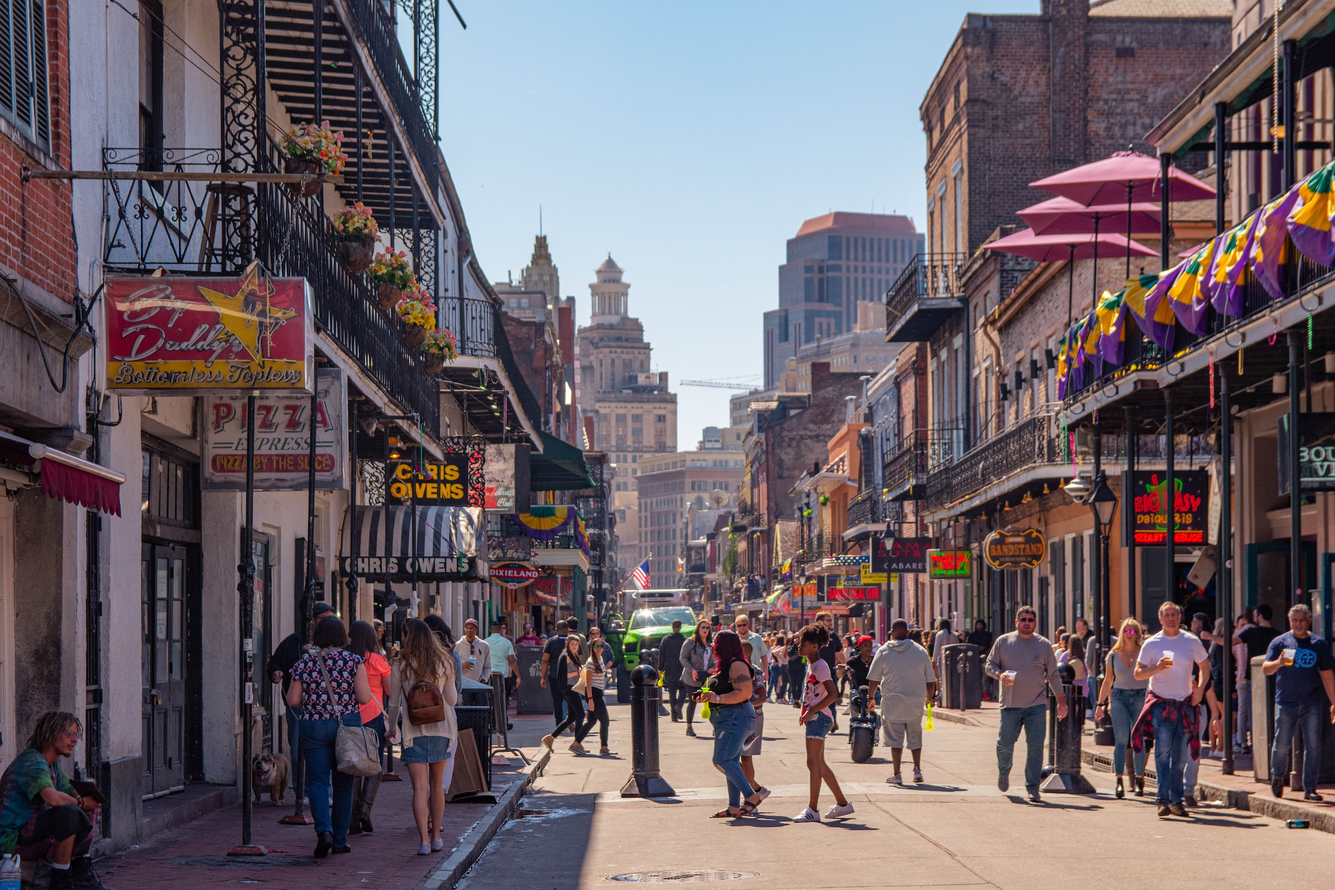
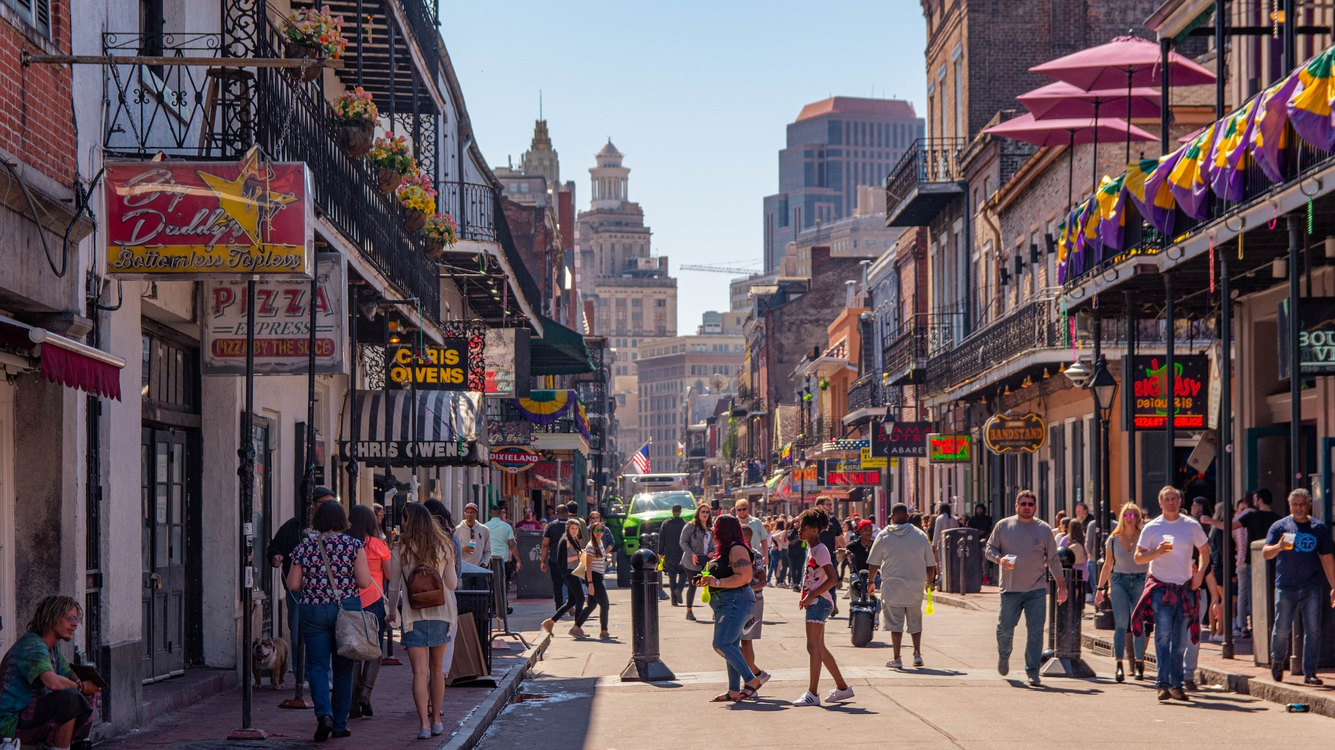
updated image sizes. created javascript image transition effect

diff --git a/css/styles.css b/css/styles.css
@@ -8,9 +8,14 @@
   left: 0;
   border: none;
   overflow-x: hidden;
+  opacity: 1;
 }
 
-.destinationContainer::before {
+body {
+  background-color: black;
+}
+
+/* .destinationContainer::before {
   content: "";
   position: absolute;
   height: 100vh;
@@ -24,23 +29,30 @@
   background-repeat: no-repeat;
   background-size: cover;
   background-attachment: fixed;
-  opacity: 1;
+  opacity: 0;
   box-shadow: inset 0px 0px 150px black;
-  transition: 1s ease-in-out;
+  transition: opacity 2s;
+  
+} */
 
+.opacity {
+  opacity: 1;
 }
 
 .fade {
-  opacity: 0;
+  animation: fade 2s ease-in-out;
 }
 
 @keyframes fade {
-  0% {opacity: 0}
-  15% {opacity: 0}
-  30% {opacity: 0}
-  70% {opacity: 0}
-  85% {opacity: 1}
-  100% {opacity: 1}
+  0% {
+    opacity: 1;
+  }
+  50% {
+    opacity: 0;
+  }
+  100% {
+    opacity: 1;
+  }
 }
 
 .destinationContainer {
@@ -48,7 +60,16 @@
   position: relative;
   background-color: black;
   /* z-index: 0; */
-  box-shadow: inset 0 0 100px black;
+
+  background-image: url("../img/travel.jpg");
+  background-position: center;
+  background-repeat: no-repeat;
+  background-size: cover;
+  background-attachment: fixed;
+
+  box-shadow: inset 0px 0px 150px black;
+  /* transition: 1s; */
+  /* transition-delay: 1s; */
 }
 
 .overlay {
@@ -85,15 +106,8 @@
   height: 300px;
 }
 
-.hamburger::before {
-  content: "";
-  opacity: 0.7;
-  background-color: black;
-}
-
 .hamburger {
   display: block;
-  float: right;
   padding: 0.5rem;
   position: fixed;
   color: white;
@@ -165,10 +179,6 @@
 @media (max-width: 600px) {
   .destinationContainer {
     height: 50vh;
-  }
-
-  .destinationContainer::before {
-    height: 50vh;
     background-position: bottom;
     background-attachment: scroll;
   }
@@ -180,6 +190,7 @@
 
   .map {
     height: 25vh;
+    width: 100vw;
   }
 
   .nav-list {
@@ -211,5 +222,12 @@
     height: 30px;
     border-radius: 5px;
     font-size: 0.9rem;
+    color: black;
+    text-decoration: none;
+  }
+
+  footer {
+    height: 25vh;
+    /* border: 2px solid white; */
   }
 }

diff --git a/js/main.js b/js/main.js
@@ -17,24 +17,36 @@ document.querySelectorAll(".nav-item").forEach((n) =>
 
 const locationsArr = destinationsArr;
 const location = document.querySelector(".location");
+const destinationContainer = document.querySelector(".destinationContainer");
+const map = document.querySelector(".map");
 let randomNum;
 let item;
-// let opacity;
-// let inervalID;
 
 const generateDestination = document.querySelector(".generateDestination");
 generateDestination.addEventListener("click", () => {
   randomNum = Math.floor(Math.random() * locationsArr.length);
   item = locationsArr[randomNum];
-
   console.log(item);
-  document.querySelector(
-    "style"
-  ).innerHTML = `.destinationContainer::before {background-image: url(${item.image});}`;
-  location.innerHTML = `${item.location}, ${item.state} <br><br>
-    Scroll down to book a flight and hotel for this destination`;
 
-  document.querySelector(".map").src = item.map;
+  //fade  effect initialized imediately
+  document.body.classList.toggle("fade");
+
+  //map will change after .5 seconds
+  setTimeout(() => {
+    map.src = item.map;
+  }, 500);
+
+  //image will be updated after 1 second
+  setTimeout(() => {
+    destinationContainer.style.backgroundImage = `url(${item.image})`;
+    location.innerHTML = `${item.location}, ${item.state} <br><br>
+    Scroll down to book a flight and hotel for this destination`;
+  }, 1000);
+
+  //fade class removed after 2 seconds when fade animation is complete
+  setTimeout(() => {
+    document.body.classList.toggle("fade");
+  }, 2000);
 });
 
 // api key for google maps AIzaSyA8KtrifgseiVbD7VJ39xQ3LMezaJJ9sBs

diff --git a/index.html b/index.html
@@ -13,11 +13,6 @@
     <style></style>
     <section class="destinationContainer">
         <nav id="navbar">
-            <div class="logo-container">
-              <a href="index.html">
-                <img src="./img/S.png" alt="" class="logo">
-              </a>
-            </div>
             <ul class="nav-list">
               <li><a class="nav-item" href="index.html">Home</a></li>
               <li><a class="nav-item" href="#travel">Fights & Hotels</a></li>
@@ -35,7 +30,7 @@
         </div>
     </section>
     <section class="travel" id="travel">
-        <iframe class= "map" src="https://www.google.com/maps/embed?pb=!1m18!1m12!1m3!1d13004082.928417291!2d-104.65713107818927!3d37.27557827818067!2m3!1f0!2f0!3f0!3m2!1i1024!2i768!4f13.1!3m3!1m2!1s0x54eab584e432360b%3A0x1c3bb99243deb742!2sUnited%20States!5e0!3m2!1sen!2sus!4v1666044629853!5m2!1sen!2sus" width="50%" height="350" style="border:0;" allowfullscreen="" loading="lazy" referrerpolicy="no-referrer-when-downgrade"></iframe>
+        <iframe class= "map" src="https://www.google.com/maps/embed?pb=!1m18!1m12!1m3!1d13004082.928417291!2d-104.65713107818927!3d37.27557827818067!2m3!1f0!2f0!3f0!3m2!1i1024!2i768!4f13.1!3m3!1m2!1s0x54eab584e432360b%3A0x1c3bb99243deb742!2sUnited%20States!5e0!3m2!1sen!2sus!4v1666044629853!5m2!1sen!2sus" width="50%" height="350" style="border:0;" allowfullscreen="" referrerpolicy="no-referrer-when-downgrade"></iframe>
     </section>
     <footer class="footer">
         
